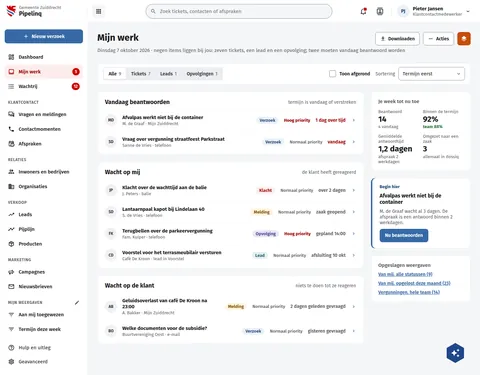
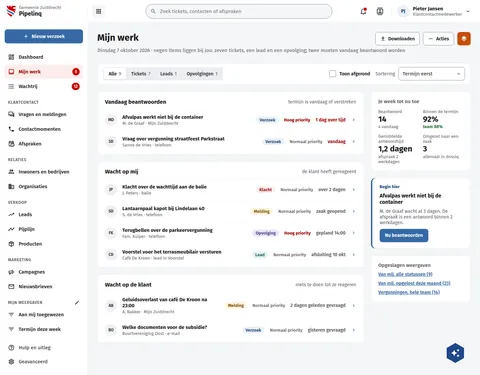
fix(screens): PqMijnWerk list titles 17px, as every dashboard board
The three lists were titled 18px; the Dq dashboards (DqMijnWerk,
DqDashboard, DqDagAfsluiten) and PqWerkplekKlant title their cards 17px,
which nc-vue's board look draws for both apps.

Assisted-by: ClaudeCode:claude-opus-5-5

diff --git a/preview/screens/boards/PqMijnWerk.html b/preview/screens/boards/PqMijnWerk.html
@@ -204,7 +204,7 @@ a{color:var(--sc-primary, #3669a5)}a:hover{color:var(--sc-primary-deep, #234a78)
           <div style="flex: 999 1 520px; min-width: 0; display: flex; flex-direction: column; gap: 20px">
             
               <section style="background: #ffffff; border: 1px solid var(--sc-work-line, #e4e6ea); border-radius: 12px; padding: 20px 22px 8px; display: flex; flex-direction: column; gap: 4px">
-                <div style="display: flex; justify-content: space-between; align-items: center; margin-bottom: 8px; gap: 12px"><h2 style="margin: 0; font-size: 18px; font-weight: 700">Vandaag beantwoorden</h2><span style="font-size: 14px; color: var(--sc-work-muted, #5e6168)">termijn is vandaag of verstreken</span></div>
+                <div style="display: flex; justify-content: space-between; align-items: center; margin-bottom: 8px; gap: 12px"><h2 style="margin: 0; font-size: 17px; font-weight: 700">Vandaag beantwoorden</h2><span style="font-size: 14px; color: var(--sc-work-muted, #5e6168)">termijn is vandaag of verstreken</span></div>
                 
                   <a href="PqTicket.html" style="display: flex; flex-wrap: wrap; align-items: center; gap: 8px 16px; padding: 12px 0; border-top: 1px solid var(--sc-work-soft, #eef0f3); color: var(--sc-work-ink, #1b1c1d); text-decoration: none">
                     <span style="width: 36px; height: 36px; flex: none; border-radius: 18px; background: var(--sc-work-chip, #f0f1f3); color: var(--sc-work-text, #3d4047); font-size: 12px; font-weight: 700; display: flex; align-items: center; justify-content: center">MD</span>
@@ -227,7 +227,7 @@ a{color:var(--sc-primary, #3669a5)}a:hover{color:var(--sc-primary-deep, #234a78)
               </section>
             
               <section style="background: #ffffff; border: 1px solid var(--sc-work-line, #e4e6ea); border-radius: 12px; padding: 20px 22px 8px; display: flex; flex-direction: column; gap: 4px">
-                <div style="display: flex; justify-content: space-between; align-items: center; margin-bottom: 8px; gap: 12px"><h2 style="margin: 0; font-size: 18px; font-weight: 700">Wacht op mij</h2><span style="font-size: 14px; color: var(--sc-work-muted, #5e6168)">de klant heeft gereageerd</span></div>
+                <div style="display: flex; justify-content: space-between; align-items: center; margin-bottom: 8px; gap: 12px"><h2 style="margin: 0; font-size: 17px; font-weight: 700">Wacht op mij</h2><span style="font-size: 14px; color: var(--sc-work-muted, #5e6168)">de klant heeft gereageerd</span></div>
                 
                   <a href="PqTicket.html" style="display: flex; flex-wrap: wrap; align-items: center; gap: 8px 16px; padding: 12px 0; border-top: 1px solid var(--sc-work-soft, #eef0f3); color: var(--sc-work-ink, #1b1c1d); text-decoration: none">
                     <span style="width: 36px; height: 36px; flex: none; border-radius: 18px; background: var(--sc-work-chip, #f0f1f3); color: var(--sc-work-text, #3d4047); font-size: 12px; font-weight: 700; display: flex; align-items: center; justify-content: center">JP</span>
@@ -268,7 +268,7 @@ a{color:var(--sc-primary, #3669a5)}a:hover{color:var(--sc-primary-deep, #234a78)
               </section>
             
               <section style="background: #ffffff; border: 1px solid var(--sc-work-line, #e4e6ea); border-radius: 12px; padding: 20px 22px 8px; display: flex; flex-direction: column; gap: 4px">
-                <div style="display: flex; justify-content: space-between; align-items: center; margin-bottom: 8px; gap: 12px"><h2 style="margin: 0; font-size: 18px; font-weight: 700">Wacht op de klant</h2><span style="font-size: 14px; color: var(--sc-work-muted, #5e6168)">niets te doen tot ze reageren</span></div>
+                <div style="display: flex; justify-content: space-between; align-items: center; margin-bottom: 8px; gap: 12px"><h2 style="margin: 0; font-size: 17px; font-weight: 700">Wacht op de klant</h2><span style="font-size: 14px; color: var(--sc-work-muted, #5e6168)">niets te doen tot ze reageren</span></div>
                 
                   <a href="PqTicket.html" style="display: flex; flex-wrap: wrap; align-items: center; gap: 8px 16px; padding: 12px 0; border-top: 1px solid var(--sc-work-soft, #eef0f3); color: var(--sc-work-ink, #1b1c1d); text-decoration: none">
                     <span style="width: 36px; height: 36px; flex: none; border-radius: 18px; background: var(--sc-work-chip, #f0f1f3); color: var(--sc-work-text, #3d4047); font-size: 12px; font-weight: 700; display: flex; align-items: center; justify-content: center">AB</span>

diff --git a/screens-src/zuiddrecht/PqMijnWerk.dc.html b/screens-src/zuiddrecht/PqMijnWerk.dc.html
@@ -45,7 +45,7 @@ a{color:#3669a5}a:hover{color:#234a78}
           <div style="flex: 999 1 520px; min-width: 0; display: flex; flex-direction: column; gap: 20px">
             <sc-for list="{{ groups }}" as="g" hint-placeholder-count="3">
               <section style="background: #ffffff; border: 1px solid #e4e6ea; border-radius: 12px; padding: 20px 22px 8px; display: flex; flex-direction: column; gap: 4px">
-                <div style="display: flex; justify-content: space-between; align-items: center; margin-bottom: 8px; gap: 12px"><h2 style="margin: 0; font-size: 18px; font-weight: 700">{{ g.title }}</h2><span style="font-size: 14px; color: #5e6168">{{ g.hint }}</span></div>
+                <div style="display: flex; justify-content: space-between; align-items: center; margin-bottom: 8px; gap: 12px"><h2 style="margin: 0; font-size: 17px; font-weight: 700">{{ g.title }}</h2><span style="font-size: 14px; color: #5e6168">{{ g.hint }}</span></div>
                 <sc-for list="{{ g.rows }}" as="r" hint-placeholder-count="2">
                   <a href="PqTicket.dc.html" style="display: flex; flex-wrap: wrap; align-items: center; gap: 8px 16px; padding: 12px 0; border-top: 1px solid #eef0f3; color: #1b1c1d; text-decoration: none">
                     <span style="width: 36px; height: 36px; flex: none; border-radius: 18px; background: #f0f1f3; color: #3d4047; font-size: 12px; font-weight: 700; display: flex; align-items: center; justify-content: center">{{ r.initials }}</span>
